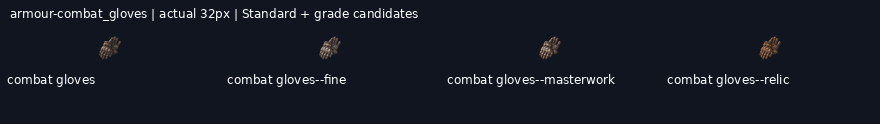
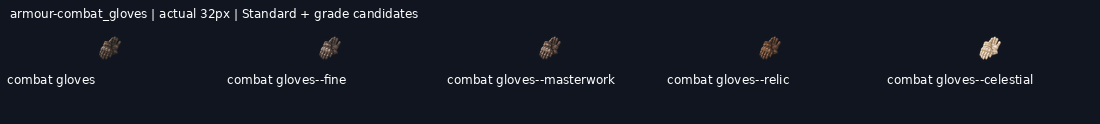
art: draw armour-combat_gloves--celestial grade candidate

diff --git a/art/_archive/gear/2026-11-19-kept-blade-grades/HANDOFF.md b/art/_archive/gear/2026-11-19-kept-blade-grades/HANDOFF.md
@@ -1,6 +1,6 @@
 # Gear grade candidates
 
-**104/120 grade candidates delivered** on `art/2026-11-19-kept-blade-grades`. Shared mailbox: https://github.com/leonpentastorm/Project-Heaven-Cry/issues/3 . See claim.json for this lane’s current Standards. Released overlapping blades reuse12 peer candidates, with3 local alternatives archived.
+**105/120 grade candidates delivered** on `art/2026-11-19-kept-blade-grades`. Shared mailbox: https://github.com/leonpentastorm/Project-Heaven-Cry/issues/3 . See claim.json for this lane’s current Standards. Released overlapping blades reuse12 peer candidates, with3 local alternatives archived.
 
 Leon requested continuous candidate production; proof approval is not fabricated. All candidates remain review-candidate, production_approved:false, implementation_ready:false, with outline.review_required:true. Exact outline is measured, never asserted unless the masks match. Per-image registration is uniform scaling/translation only, without warp, silhouette masks, filled pixels or code-drawn substitutes. The generated native remains untouched.
 
@@ -10,12 +10,12 @@ Tomorrow: fetch this branch and develop safely, read the latest issue 3 comments
 
 Peer audit: [coordination/peer-audit-2026-11-19.md](coordination/peer-audit-2026-11-19.md). Peer58 masters/232 exports and12 canonical imports were checked. Faint alpha<8 margin residue requires versioned technical cleanup; check its subsequent correction manifest before claiming that cleanup is complete. Peer quota resets20 November2026 at09:45:39 Bangkok time; this does not establish this session’s quota.
 
-Remaining: weapon-ork_machete--masterwork, weapon-ork_machete--relic, weapon-ork_machete--celestial, weapon-war_axe--fine, weapon-war_axe--masterwork, weapon-war_axe--relic, weapon-war_axe--celestial, armour-combat_gloves--celestial, armour-field_boots--fine, armour-field_boots--masterwork, armour-field_boots--relic, armour-field_boots--celestial, armour-heavy_boots--fine, armour-heavy_boots--masterwork, armour-heavy_boots--relic, armour-heavy_boots--celestial.
+Remaining: weapon-ork_machete--masterwork, weapon-ork_machete--relic, weapon-ork_machete--celestial, weapon-war_axe--fine, weapon-war_axe--masterwork, weapon-war_axe--relic, weapon-war_axe--celestial, armour-field_boots--fine, armour-field_boots--masterwork, armour-field_boots--relic, armour-field_boots--celestial, armour-heavy_boots--fine, armour-heavy_boots--masterwork, armour-heavy_boots--relic, armour-heavy_boots--celestial.
 
 Service-rejected requests (do not repeatedly resubmit): weapon-ork_machete--masterwork, weapon-war_axe--fine.
 
 Waiting on rejected prerequisites: weapon-ork_machete--celestial, weapon-ork_machete--relic, weapon-war_axe--celestial, weapon-war_axe--masterwork, weapon-war_axe--relic.
 
-Ready independent next steps, in queue order: armour-combat_gloves--celestial, armour-field_boots--fine, armour-heavy_boots--fine. Other pending grades follow their preceding grade.
+Ready independent next steps, in queue order: armour-field_boots--fine, armour-heavy_boots--fine. Other pending grades follow their preceding grade.
 
 Runtime handoff: implementation_ready:false records review status but does not gate the web asset builder. The builder emits grade asset keys; the current UI gear resolver still needs grade-aware selection. Do not claim that runtime grade selection is implemented by these art deliveries.
